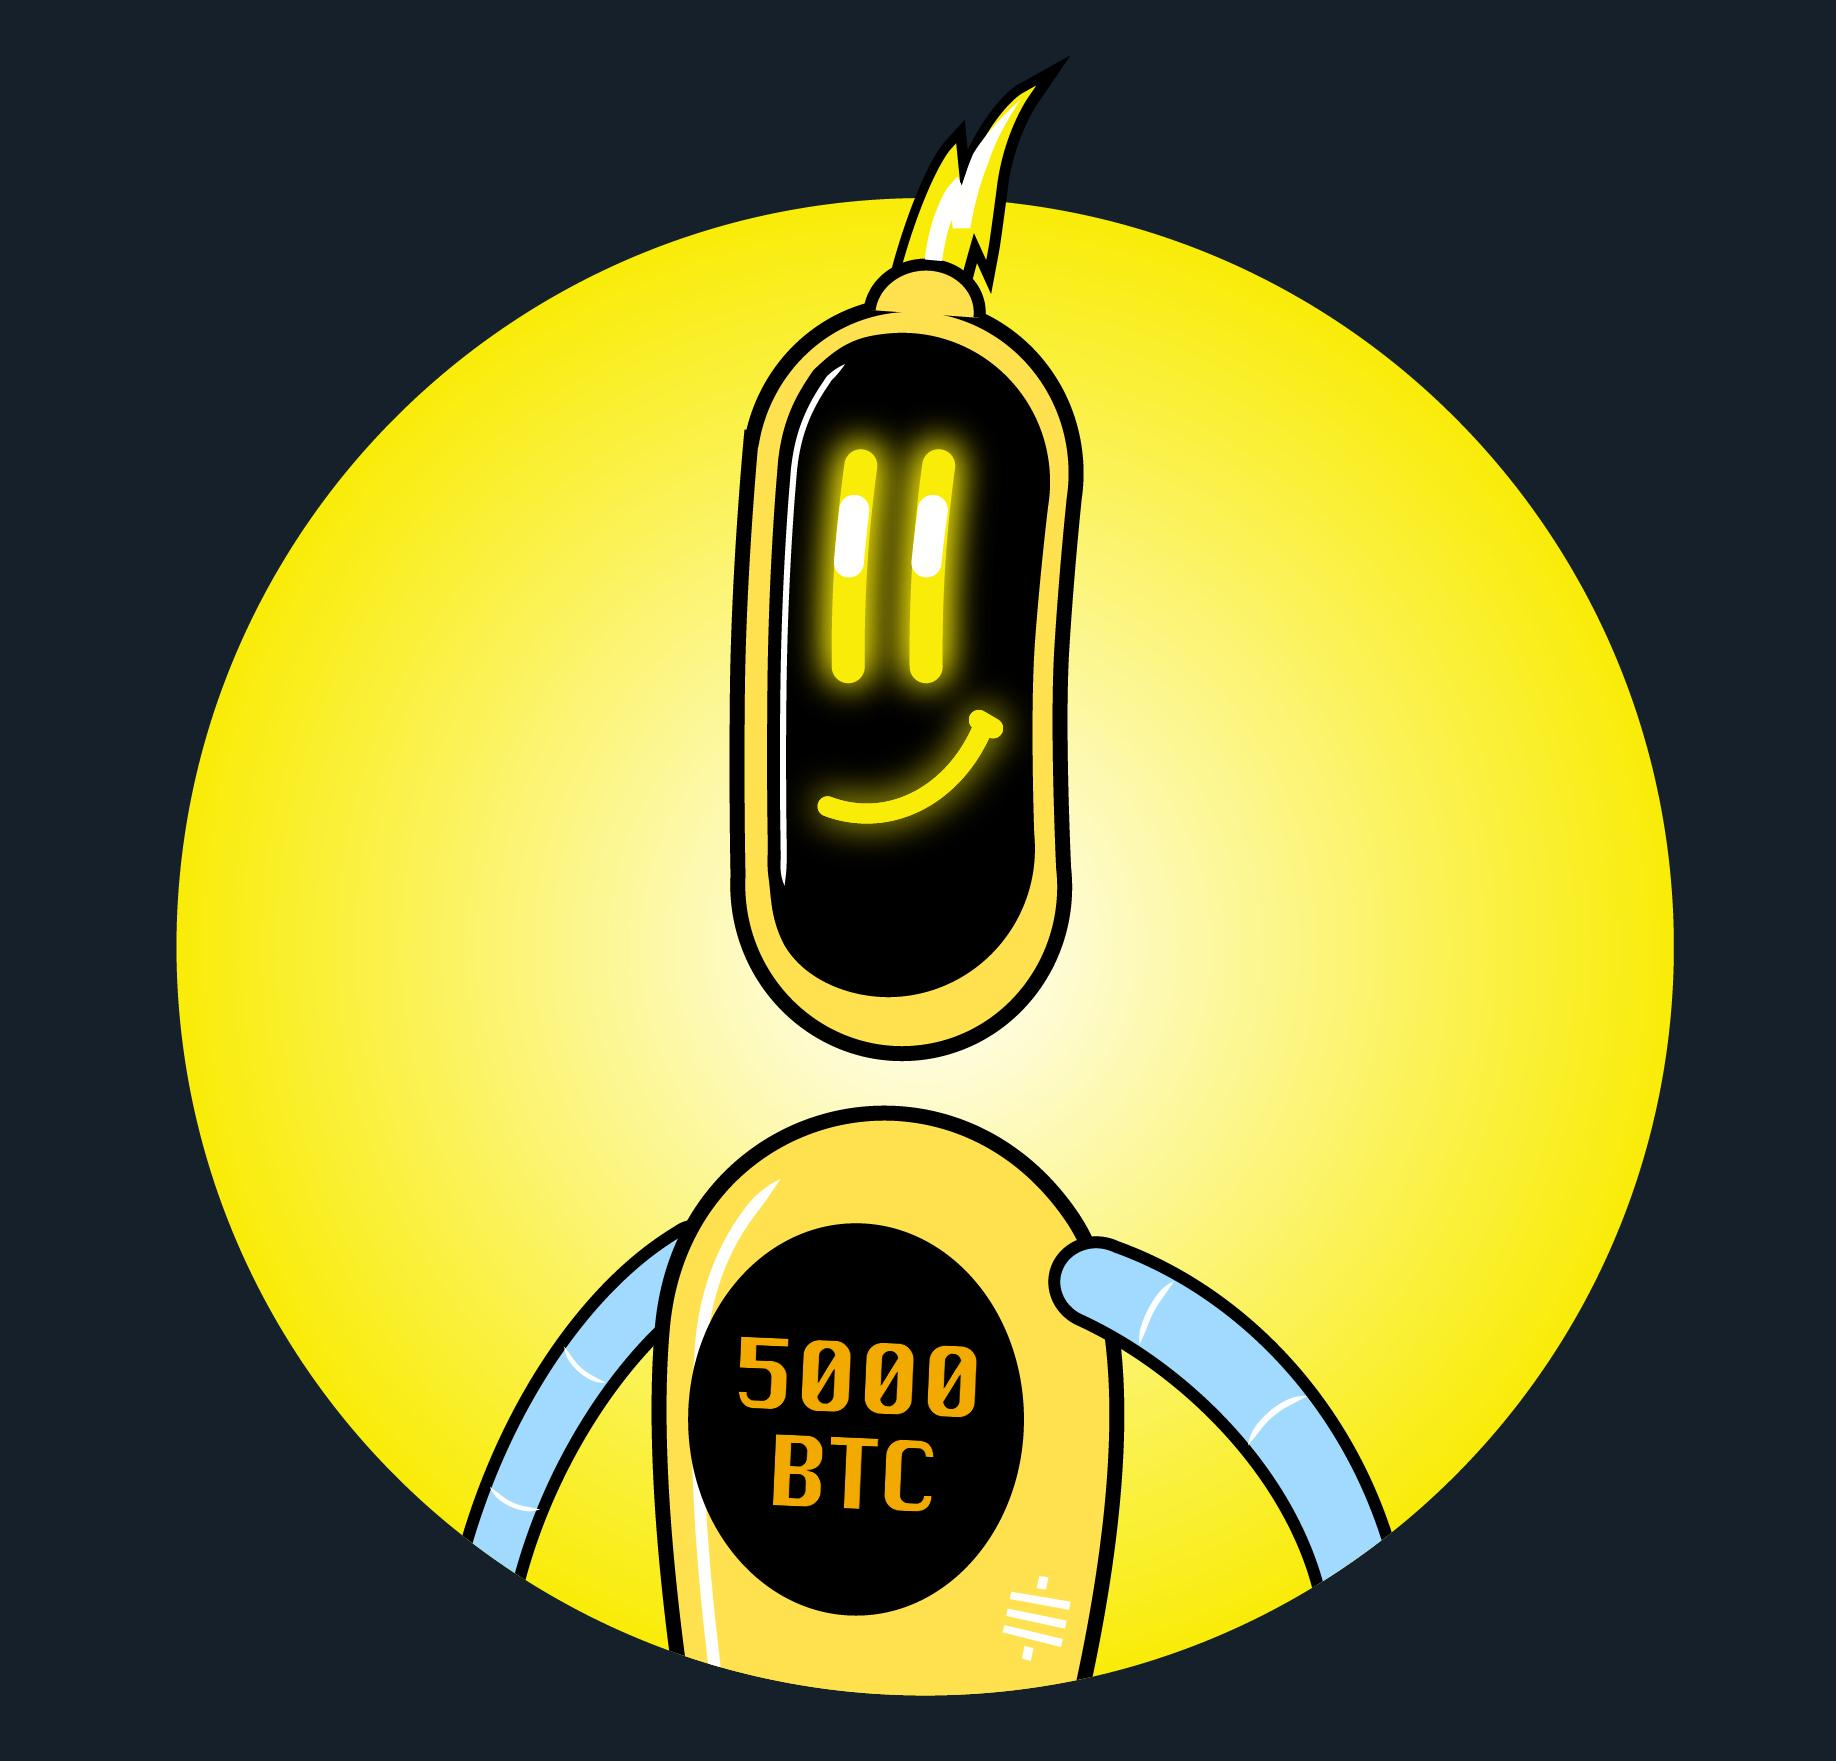
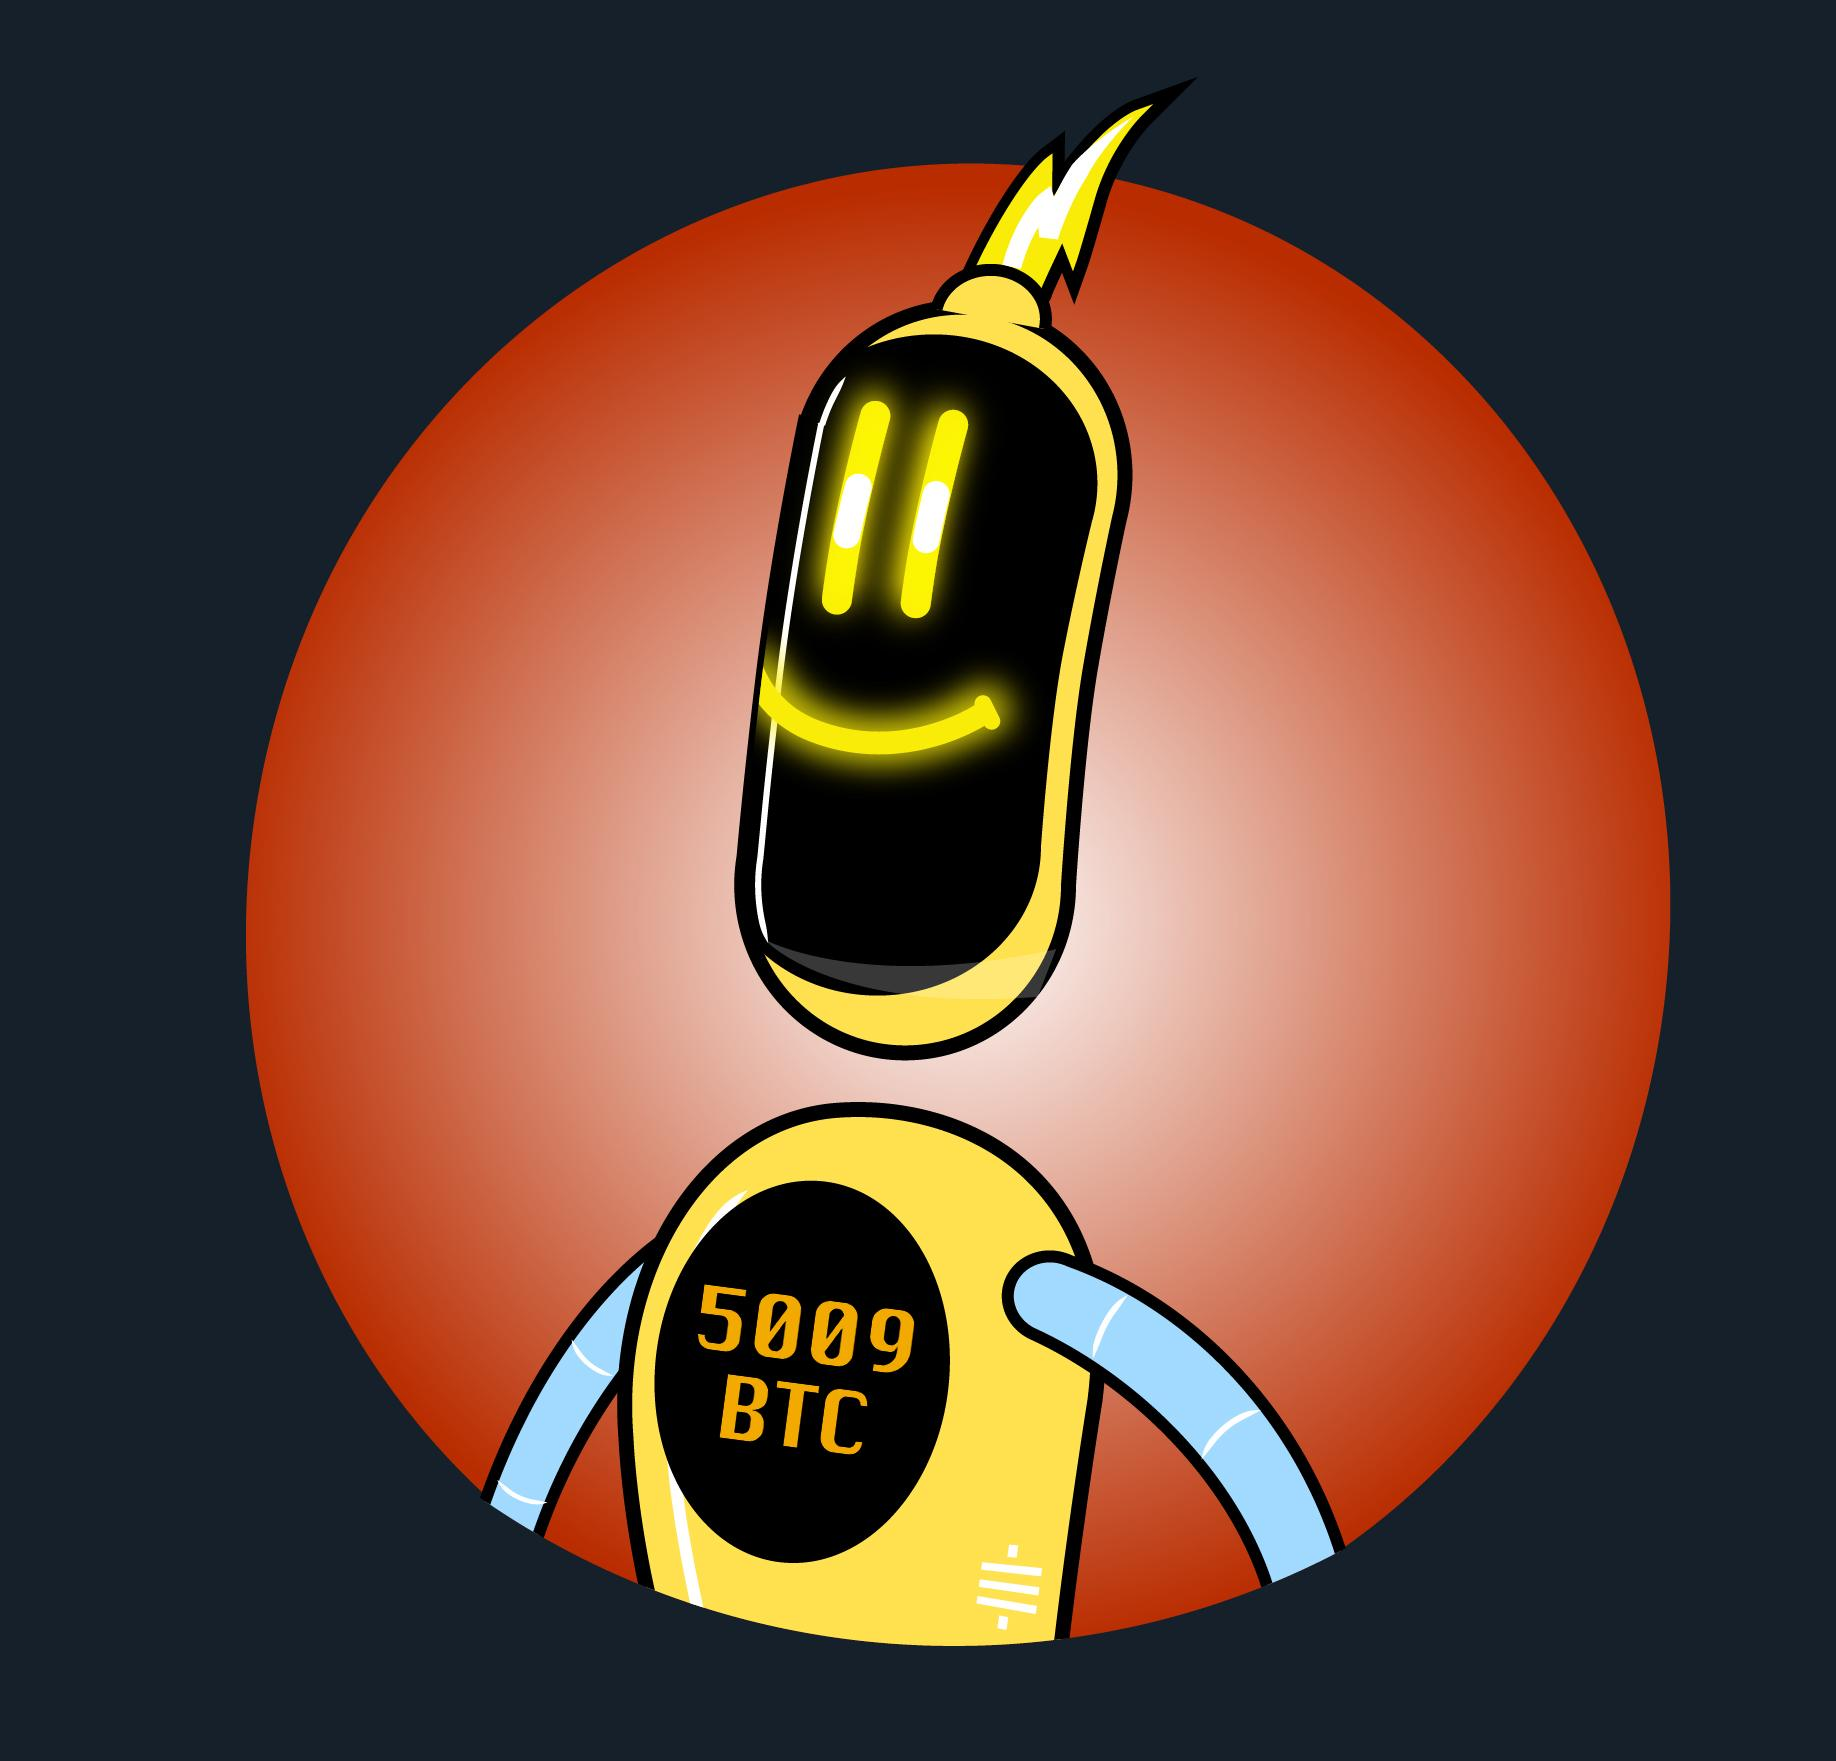
automating LN_cap tweet for every day at 12 pm ET. We'll see what happens tomorrow!

diff --git a/text_on_images.py b/text_on_images.py
@@ -1,10 +1,30 @@
 from PIL import Image, ImageDraw, ImageFont, ImageOps
 import os
 
-# todo configuration for images 1, 3, 4, 5.jpg - 2.jpg and 6.jpg are done and good to go
+# todo configuration for images 5.jpg - 2.jpg and 6.jpg are done and good to go
 
 
 def image_draw_angled(LN_capacity_in_BTC, tweet_image):
+
+        if tweet_image == "assets/blank_belly_dark_mode/1.jpg":
+                tweet_image = Image.open(tweet_image)
+                # font = ImageFont.truetype("SourceCodePro-Bold.ttf",100)
+                font = ImageFont.truetype("Silom.ttf",85)
+                
+                # Creating a temporary canvas, drawing the text on it, and rotating
+                temporary_canvas = Image.new(mode='L', size=(500,500))
+                text_on_temporary_canvas = ImageDraw.Draw(temporary_canvas)
+                text_on_temporary_canvas.text((0, 0), str(LN_capacity_in_BTC) + "\nBTC", font=font, fill=255, align="center")
+                # rotated_text_on_temporary_canvas=temporary_canvas.rotate(-24, resample=3, expand=1)
+                rotated_text_on_temporary_canvas=temporary_canvas.rotate(-7.5, resample=3, expand=1)
+
+                # pasting temporary canvas on main image
+                # tweet_image.paste( ImageOps.colorize(rotated_text_on_temporary_canvas, (0,0,0), (242,169,0)), (462,1190), rotated_text_on_temporary_canvas)
+                tweet_image.paste( ImageOps.colorize(rotated_text_on_temporary_canvas, (0,0,0), (242,169,0)), (634,1265), rotated_text_on_temporary_canvas)
+
+                # tweet_image.show()
+                tweet_image.save("assets/tweet_image.jpg")
+                return None
 
         if tweet_image == "assets/blank_belly_dark_mode/2.jpg":
                 tweet_image = Image.open(tweet_image)
@@ -21,6 +41,66 @@ def image_draw_angled(LN_capacity_in_BTC, tweet_image):
                 # pasting temporary canvas on main image
                 # tweet_image.paste( ImageOps.colorize(rotated_text_on_temporary_canvas, (0,0,0), (242,169,0)), (462,1190), rotated_text_on_temporary_canvas)
                 tweet_image.paste( ImageOps.colorize(rotated_text_on_temporary_canvas, (0,0,0), (242,169,0)), (712,1315), rotated_text_on_temporary_canvas)
+
+                # tweet_image.show()
+                tweet_image.save("assets/tweet_image.jpg")
+                return None
+
+        if tweet_image == "assets/blank_belly_dark_mode/3.jpg":
+                tweet_image = Image.open(tweet_image)
+                # font = ImageFont.truetype("SourceCodePro-Bold.ttf",100)
+                font = ImageFont.truetype("Silom.ttf",88)
+                
+                # Creating a temporary canvas, drawing the text on it, and rotating
+                temporary_canvas = Image.new(mode='L', size=(500,500))
+                text_on_temporary_canvas = ImageDraw.Draw(temporary_canvas)
+                text_on_temporary_canvas.text((0, 0), str(LN_capacity_in_BTC) + "\nBTC", font=font, fill=255, align="center")
+                # rotated_text_on_temporary_canvas=temporary_canvas.rotate(-24, resample=3, expand=1)
+                rotated_text_on_temporary_canvas=temporary_canvas.rotate(3, resample=3, expand=1)
+
+                # pasting temporary canvas on main image
+                # tweet_image.paste( ImageOps.colorize(rotated_text_on_temporary_canvas, (0,0,0), (242,169,0)), (462,1190), rotated_text_on_temporary_canvas)
+                tweet_image.paste( ImageOps.colorize(rotated_text_on_temporary_canvas, (0,0,0), (242,169,0)), (926,1285), rotated_text_on_temporary_canvas)
+
+                # tweet_image.show()
+                tweet_image.save("assets/tweet_image.jpg")
+                return None
+
+        if tweet_image == "assets/blank_belly_dark_mode/4.jpg":
+                tweet_image = Image.open(tweet_image)
+                # font = ImageFont.truetype("SourceCodePro-Bold.ttf",100)
+                font = ImageFont.truetype("Silom.ttf",86)
+                
+                # Creating a temporary canvas, drawing the text on it, and rotating
+                temporary_canvas = Image.new(mode='L', size=(500,500))
+                text_on_temporary_canvas = ImageDraw.Draw(temporary_canvas)
+                text_on_temporary_canvas.text((0, 0), str(LN_capacity_in_BTC) + "\nBTC", font=font, fill=255, align="center")
+                # rotated_text_on_temporary_canvas=temporary_canvas.rotate(-24, resample=3, expand=1)
+                rotated_text_on_temporary_canvas=temporary_canvas.rotate(-2.5, resample=3, expand=1)
+
+                # pasting temporary canvas on main image
+                # tweet_image.paste( ImageOps.colorize(rotated_text_on_temporary_canvas, (0,0,0), (242,169,0)), (462,1190), rotated_text_on_temporary_canvas)
+                tweet_image.paste( ImageOps.colorize(rotated_text_on_temporary_canvas, (0,0,0), (242,169,0)), (747,1303), rotated_text_on_temporary_canvas)
+
+                # tweet_image.show()
+                tweet_image.save("assets/tweet_image.jpg")
+                return None
+
+        if tweet_image == "assets/blank_belly_dark_mode/5.jpg":
+                tweet_image = Image.open(tweet_image)
+                # font = ImageFont.truetype("SourceCodePro-Bold.ttf",100)
+                font = ImageFont.truetype("Silom.ttf",86)
+                
+                # Creating a temporary canvas, drawing the text on it, and rotating
+                temporary_canvas = Image.new(mode='L', size=(500,500))
+                text_on_temporary_canvas = ImageDraw.Draw(temporary_canvas)
+                text_on_temporary_canvas.text((0, 0), str(LN_capacity_in_BTC) + "\nBTC", font=font, fill=255, align="center")
+                # rotated_text_on_temporary_canvas=temporary_canvas.rotate(-24, resample=3, expand=1)
+                rotated_text_on_temporary_canvas=temporary_canvas.rotate(-4, resample=3, expand=1)
+
+                # pasting temporary canvas on main image
+                # tweet_image.paste( ImageOps.colorize(rotated_text_on_temporary_canvas, (0,0,0), (242,169,0)), (462,1190), rotated_text_on_temporary_canvas)
+                tweet_image.paste( ImageOps.colorize(rotated_text_on_temporary_canvas, (0,0,0), (242,169,0)), (622,1268), rotated_text_on_temporary_canvas)
 
                 # tweet_image.show()
                 tweet_image.save("assets/tweet_image.jpg")

diff --git a/main.py b/main.py
@@ -12,10 +12,10 @@ from apscheduler.schedulers.blocking import BlockingScheduler
 
 def manual_tweet():
     while True:
-        option = input("What kind of tweet would you like to send (flippening/LN_cap/quit)? ")
+        option = input("What kind of tweet would you like to send (LN_flippening/LN_cap/quit)? ")
         if option.lower() == "quit":
             quit()
-        if option.lower() == "flippening":
+        if option.lower() == "ln_flippening":
             LN_flippening_tracker()
         if option.lower() == "ln_cap":
             LN_cap()
@@ -103,17 +103,15 @@ def LN_flippening_tracker():
 def LN_cap():
     # fetching LN capacity in BTC
     LN_capacity_in_BTC = amboss_get_LN_capacity()
-    # LN_capacity_text = "Current LN channel capacity: " + str(LN_capacity_in_BTC) + " BTC"
-    LN_capacity_text = "Current LN channel capacity: " + str(5000) + " BTC"
+    LN_capacity_text = "Current LN channel capacity: " + str(LN_capacity_in_BTC) + " BTC"
 
     # picking random image
-    # random_image_picker = random.randint(1,5)
-    # tweet_image = "assets/blank_belly_dark_mode/" + str(random_image_picker) + ".jpg"
-    tweet_image = "assets/blank_belly_dark_mode/2.jpg"
+    random_image_picker = random.randint(1,6)
+    tweet_image = "assets/blank_belly_dark_mode/" + str(random_image_picker) + ".jpg"
 
     # typing LN capacity on mascot
     # tweet_image = text_on_images.image_draw_angled(LN_capacity_in_BTC, tweet_image)
-    tweet_image = text_on_images.image_draw_angled(5000, tweet_image)
+    tweet_image = text_on_images.image_draw_angled(LN_capacity_in_BTC, tweet_image)
     subprocess.call(('open', "assets/tweet_image.jpg"))
 
     custom_text_yes_or_no = input("Would you like to add custom text to the tweet (y/n)? ")
@@ -142,12 +140,31 @@ def LN_cap():
 
 # script initialization: It auto-starts the daily LN_cap tweet at 12 pm ET. User can press Ctrl+C or Ctrl+Break to start manual tweeting functionality
 
-def tick():
-    print('Tick! The time is: %s' % datetime.now())
+def LN_cap_automated():
+    # fetching LN capacity in BTC
+    LN_capacity_in_BTC = amboss_get_LN_capacity()
+    LN_capacity_text = "Current LN channel capacity: " + str(LN_capacity_in_BTC) + " BTC"
+
+    # picking random image
+    random_image_picker = random.randint(1,6)
+    tweet_image = "assets/blank_belly_dark_mode/" + str(random_image_picker) + ".jpg"
+
+    # typing LN capacity on mascot
+    tweet_image = text_on_images.image_draw_angled(LN_capacity_in_BTC, tweet_image)
+
+    # LIGHTNING NETWORK CAPACITY TWEET
+    tweet_message = (
+    "LIGHTNING NETWORK CAPACITY UPDATE" + "\n\n" + 
+    LN_capacity_text
+        )
+    print(tweet_message)
+    tweepy_send_tweet(tweet_message,"assets/tweet_image.jpg")
+    print("Tweet sent")
+    os.remove("assets/tweet_image.jpg")
 
 if __name__ == '__main__':
     scheduler = BlockingScheduler()
-    scheduler.add_job(tick, 'cron', hour=11, minute=50, timezone="America/New_York")
+    scheduler.add_job(LN_cap_automated, 'cron', hour=12, minute=00, timezone="America/New_York")
     print('Press Ctrl+{0} to stop scheduler and switch to manual tweet.'.format('Break' if os.name == 'nt' else 'C'))
 
     try:
